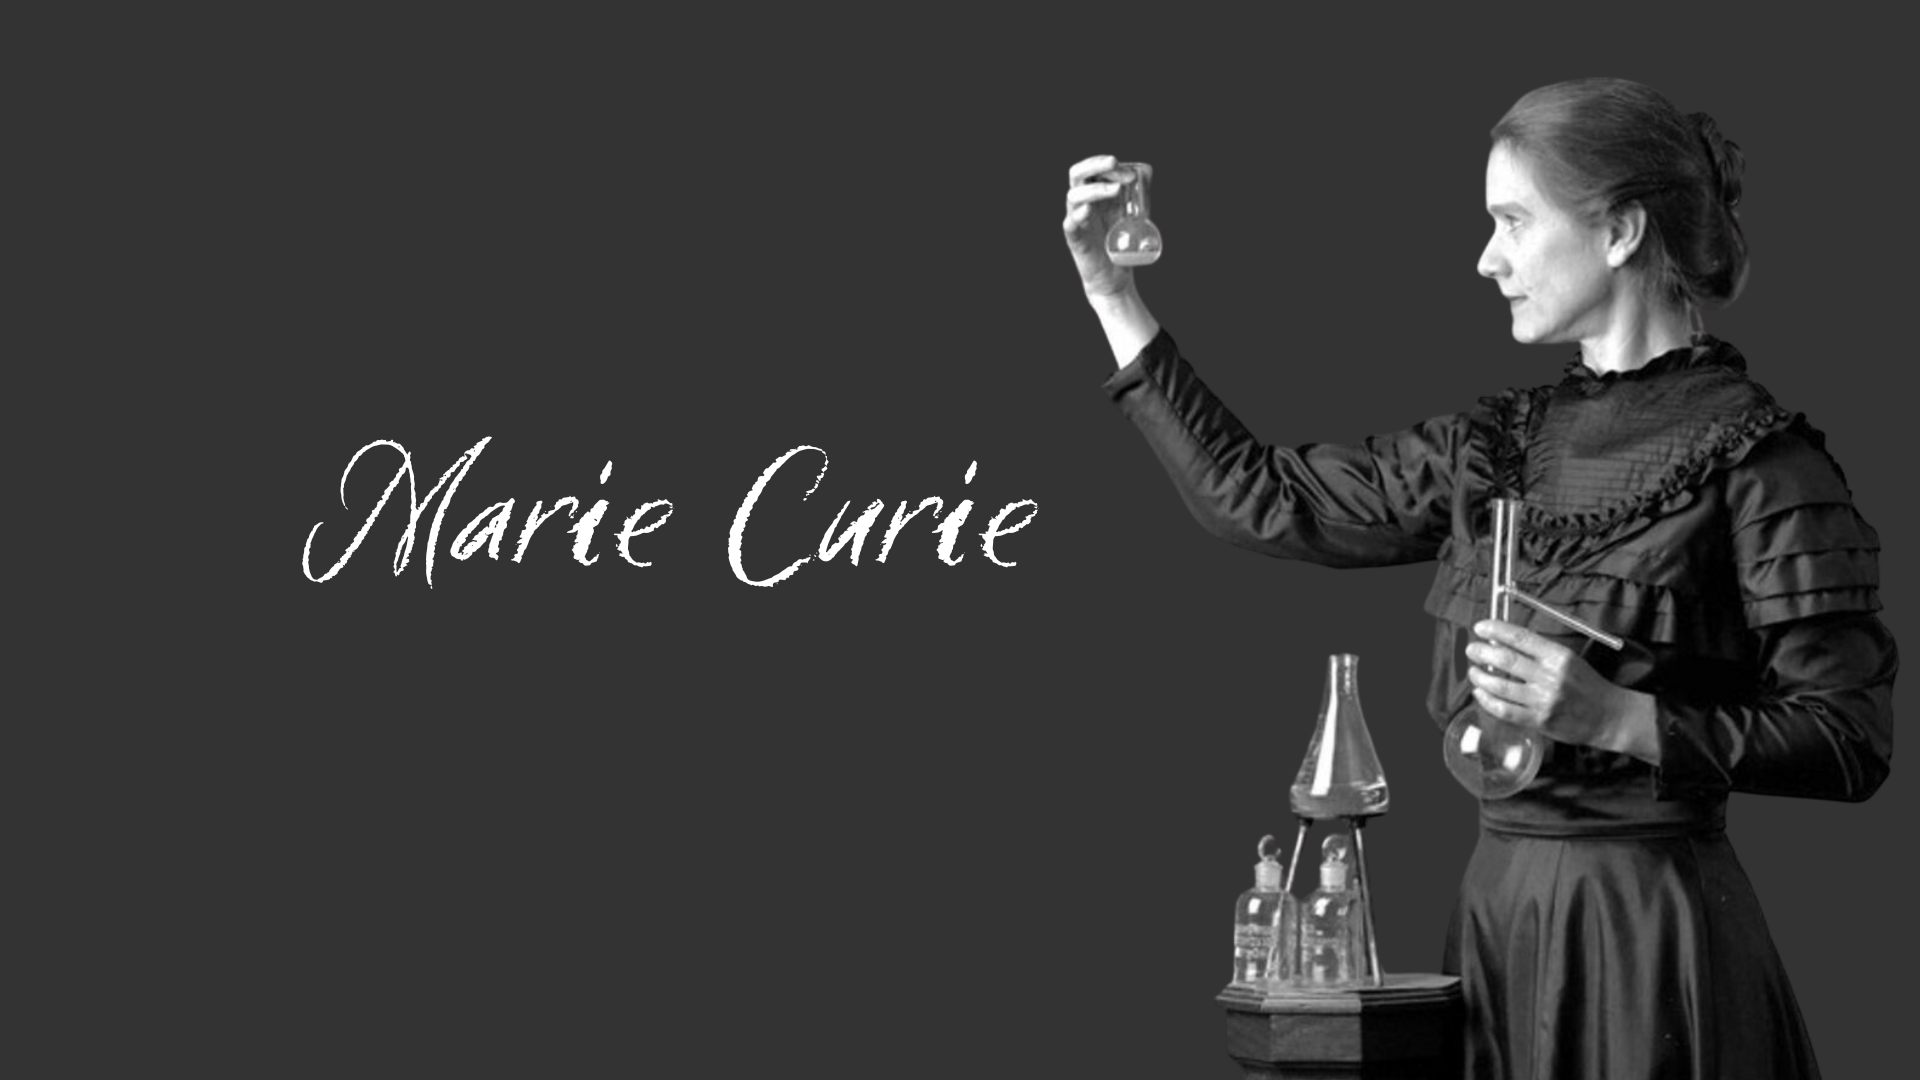
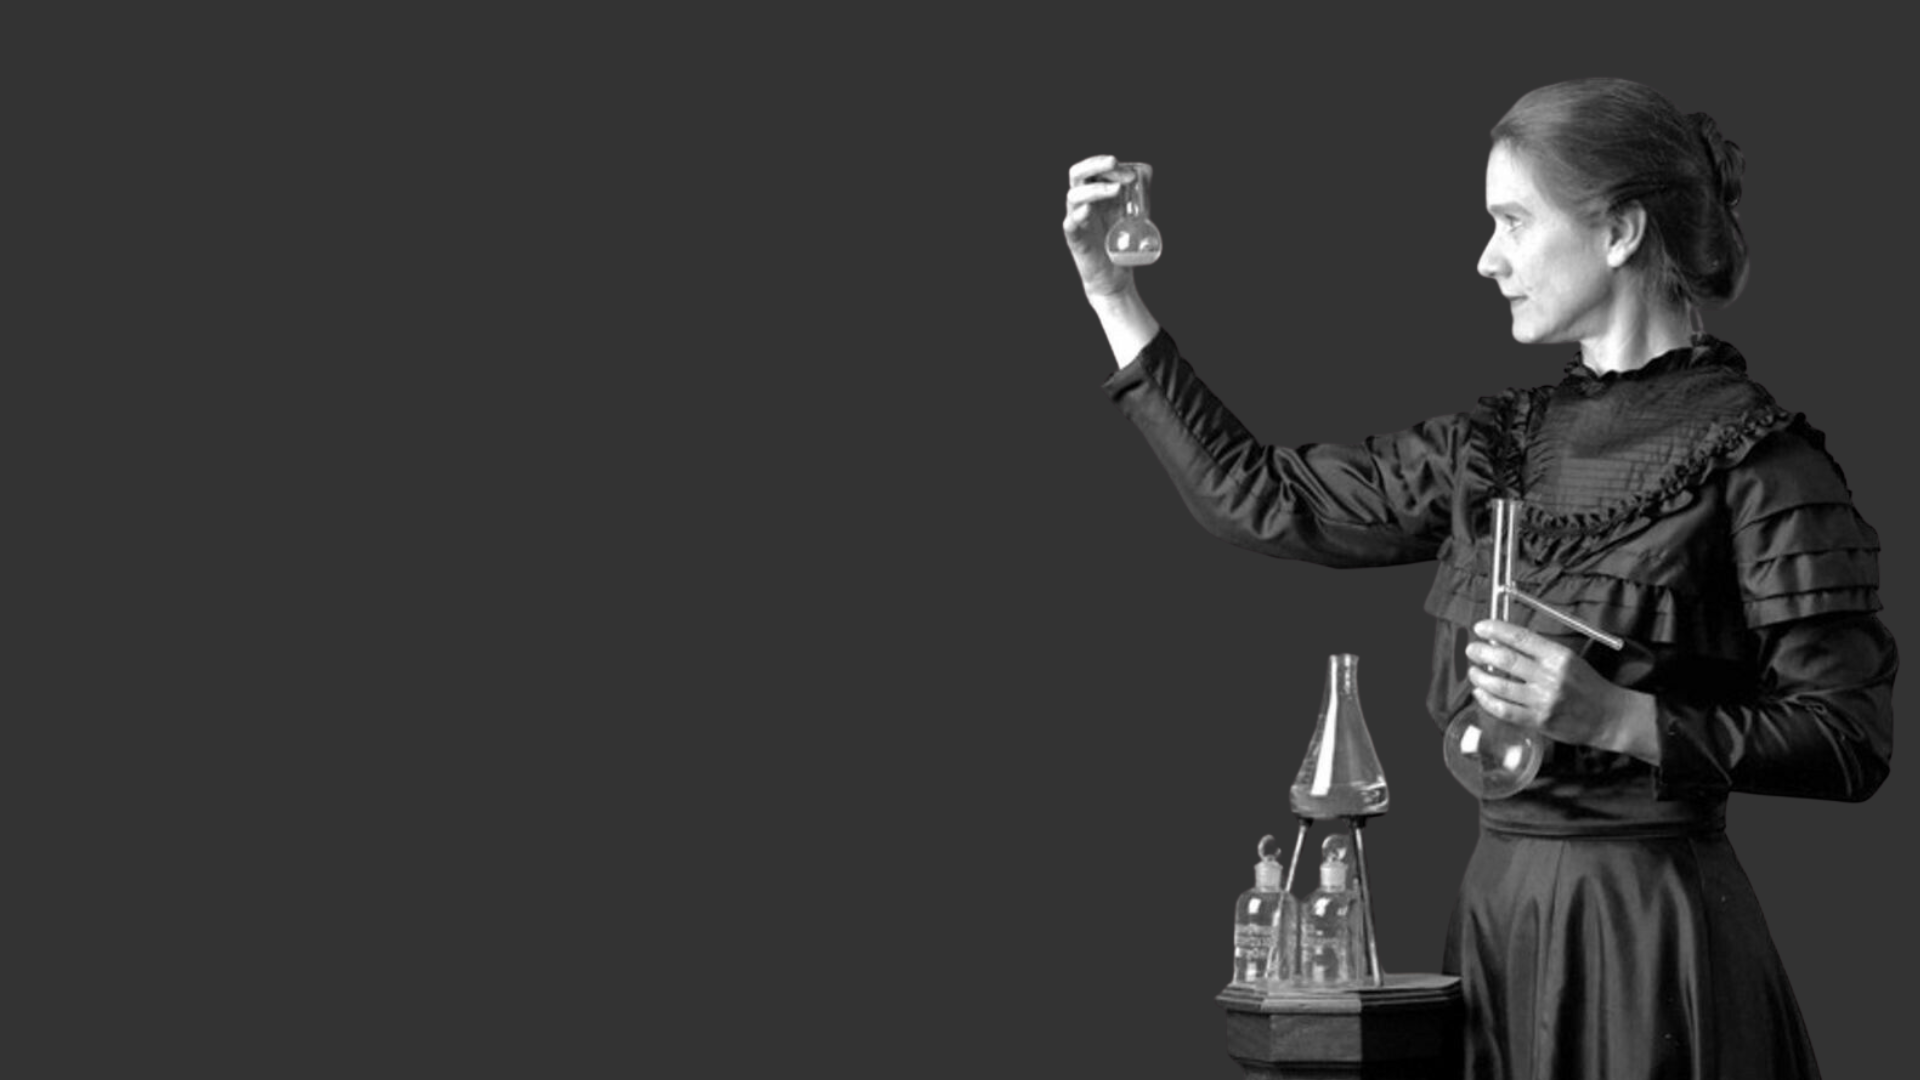
a
a

Changed region(s): [[0.1562, 0.3972, 0.3438, 0.55], [0.375, 0.4278, 0.5625, 0.55], [0.4062, 0.3972, 0.4375, 0.4278]]

diff --git a/react_01/src/sidebar.css b/react_01/src/sidebar.css
@@ -1,0 +1,59 @@
+.overlay {
+    position: fixed;
+    inset: 0;
+    background: rgba(0,0,0,.4);
+    opacity: 0;
+    visibility: hidden;
+    transition: .3s;
+    z-index: 998;
+}
+
+.overlay.show {
+    opacity: 1;
+    visibility: visible;
+}
+
+.sidebar {
+    font-family: 'Vexa-font';
+    position: fixed;
+    top: 0;
+    left: 0;
+
+    width: 360px;
+    height: 100vh;
+
+    background: #490839;
+    transform: translateX(-100%);
+    transition: transform .3s ease;
+
+    z-index: 999;
+}
+
+.sidebar.open {
+    transform: translateX(0);
+}
+
+.sidebar-item {
+    display: flex;
+    align-items: center;
+    gap: 25px;
+
+    height: 100px;
+    padding: 0 35px;
+
+    color: white;
+    font-size: 16px;
+
+    border-bottom: 1px solid rgba(255,255,255,.15);
+    cursor: pointer;
+}
+
+.sidebar-item:hover {
+    background: rgba(103, 5, 103, 0.379);
+}
+
+.icone {
+    width: 30px;
+    text-align: center;
+    font-size: 24px;
+}

diff --git a/react_01/src/sidebar.jsx b/react_01/src/sidebar.jsx
@@ -1,0 +1,36 @@
+import "./sidebar.css";
+
+function Sidebar({ isOpen, onClose }) {
+  return (
+    <>
+      <div
+        className={`overlay ${isOpen ? "show" : ""}`}
+        onClick={onClose}
+      ></div>
+
+      <div className={`sidebar ${isOpen ? "open" : ""}`}>
+        <div className="sidebar-item" onClick={onClose}>
+          <span className="icone">←</span>
+          <span>Voltar</span>
+        </div>
+
+        <div className="sidebar-item">
+          <span className="icone">✎</span>
+          <span>Criar conta ou entrar</span>
+        </div>
+
+        <div className="sidebar-item">
+          <span className="icone">?</span>
+          <span>Ajuda</span>
+        </div>
+
+        <div className="sidebar-item">
+          <span className="icone">⚙</span>
+          <span>Configurações</span>
+        </div>
+      </div>
+    </>
+  );
+}
+
+export default Sidebar;

diff --git a/react_01/src/Banner.css b/react_01/src/Banner.css
@@ -1,0 +1,54 @@
+.banner-main {
+    width: 100%;
+    display: flex;
+    justify-content: center;
+    margin-top: 40px;
+}
+
+.banner-container {
+    position: relative;
+    width: 90%;
+    max-width: 1200px;
+}
+
+.banner-img {
+    width: 100%;
+    display: block;
+    border-radius: 20px;
+}
+
+.banner-content {
+    position: absolute;
+    left: 35px;
+    bottom: 35px;
+
+    max-width: 350px;
+
+    padding: 20px;
+
+    background: rgba(0, 0, 0, 0.45);
+    border-radius: 12px;
+
+    color: white;
+}
+
+.banner-content p {
+    margin-bottom: 15px;
+    font-size: 18px;
+}
+
+.banner-btn {
+    border: none;
+    padding: 12px 25px;
+    border-radius: 8px;
+
+    background: white;
+    color: #3B0A45;
+
+    font-weight: bold;
+    cursor: pointer;
+}
+
+.banner-btn:hover {
+    opacity: .9;
+}

diff --git a/react_01/src/banner.jsx b/react_01/src/banner.jsx
@@ -1,3 +1,30 @@
 import { useState } from 'react';
-import './Banner.css';
+import "./Banner.css";
+import marie from "./assets/marie.png";
 
+function Banner() {
+  return (
+    <main className="banner-main">
+      <div className="banner-container">
+
+        <img
+          src={marie}
+          alt="Banner principal"
+          className="banner-img"
+        />
+
+        <div className="banner-content">
+          <p>
+            Descubra novos conteúdos e participe da comunidade.
+          </p>
+
+          <button className="banner-btn">
+          </button>
+        </div>
+
+      </div>
+    </main>
+  );
+}
+
+export default Banner;

diff --git a/react_01/src/menu.jsx b/react_01/src/menu.jsx
@@ -1,14 +1,12 @@
-import minhaImagem from './assets/menu.png';
+import minhaImagem from "./assets/menu.png";
 
-function Menu() {
-  const handleClick = () => {
-    console.log('Botão clicado!');
-  };
-
+function Menu({ onMenuClick }) {
   return (
-    <button className='menu-btn' onClick={handleClick}>
-      <img src={minhaImagem} alt="Descrição da imagem"/>
-
+    <button
+      className="menu-btn"
+      onClick={onMenuClick}
+    >
+      <img src={minhaImagem} alt="Menu" />
     </button>
   );
 }

diff --git a/react_01/src/App.jsx b/react_01/src/App.jsx
@@ -1,12 +1,19 @@
+import { useState } from "react";
 import Header from './header.jsx';
 import Button from './btn.jsx';
+import Sidebar from "./sidebar.jsx";
+import Banner from "./banner.jsx";
 
 import './App.css';
 
 function App() {
+
+  const [isOpen, setIsOpen] = useState(false);
   return (
     <div>
-      <Header/> 
+      <Header  onMenuClick={() => setIsOpen(true)} /> 
+      <Sidebar isOpen={isOpen} onClose={() => setIsOpen(false)}/>
+      <Banner />
     </div>
   );
 }

diff --git a/react_01/src/header.jsx b/react_01/src/header.jsx
@@ -1,10 +1,10 @@
 import Button from './btn.jsx';
 import Menu from './menu.jsx'; 
 
-function Header() {
+function Header({ onMenuClick }) {
     return (
       <header className="header">
-        <Menu/>
+        <Menu onMenuClick={onMenuClick}/>
         <div className="logo">
           <h1 className="titulo">VEXA</h1>
         </div>
